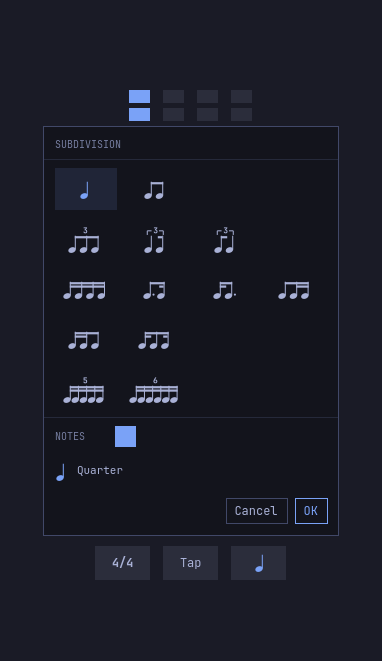
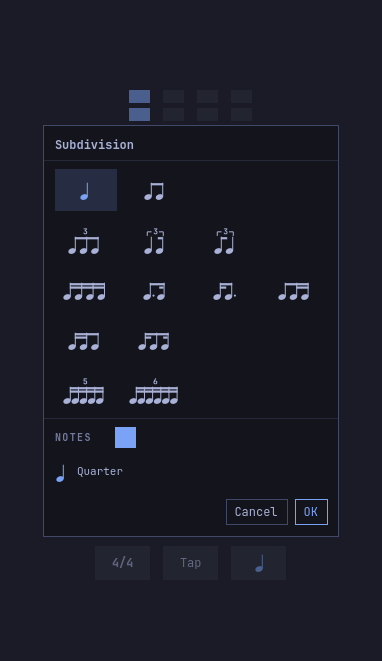
fix(ui): the dialogs follow Flea's current cards
The ground dims behind an open card and swallows the wheel; titles are
bold at the body size; the Notes eyebrow is bold and tracked; tiles take
the shell's hover and selected fills; the keys sheet gains the settings
header (esc and a close at the hit floor) and framed caps. The README's
two dialog screenshots are retaken.

diff --git a/ui/Main.qml b/ui/Main.qml
@@ -843,10 +843,26 @@ Item {
         // --- the time signature editor, over everything while open ---
         // The wheels spin a draft; ok commits it to the metronome, cancel —
         // or a click outside — throws the draft away.
-        MouseArea {
+        // Flea's ground under an open card: the window dimmed by half, and a
+        // press on it is a cancel. It swallows the wheel so nothing behind
+        // the card turns while it is up.
+        component Ground: Rectangle {
+            signal dismissed()
             anchors.fill: parent
+            color: Qt.alpha(Theme.color.background, Theme.groundOpacity)
+
+            MouseArea {
+                anchors.fill: parent
+                acceptedButtons: Qt.LeftButton | Qt.RightButton
+                hoverEnabled: true
+                onClicked: parent.dismissed()
+                onWheel: function (wheel) { wheel.accepted = true }
+            }
+        }
+
+        Ground {
             visible: root.tsOpen
-            onClicked: root.tsOpen = false
+            onDismissed: root.tsOpen = false
         }
 
         Rectangle {
@@ -902,19 +918,20 @@ Item {
                 anchors.topMargin: Theme.spacing.rowPaddingX
                 spacing: 0
 
-                // Flea's dialog header: the title sits at the card's left
-                // padding on a hairline rule, and the body hangs below it.
+                // Flea's dialog header: the title, bold in the body's size,
+                // sits at the card's left padding on a hairline rule, and
+                // the body hangs below it.
                 Text {
                     width: parent.width
                     leftPadding: Theme.spacing.rowPaddingX
                     rightPadding: Theme.spacing.rowPaddingX
                     bottomPadding: Theme.spacing.gap
                     text: I18n.tr("timeSignature.title")
-                    font.capitalization: Font.AllUppercase
                     elide: Text.ElideRight
-                    color: Theme.color.captionOnSurface
+                    color: Theme.color.foreground
                     font.family: Theme.font.family
-                    font.pixelSize: Theme.font.caption
+                    font.pixelSize: Theme.font.body
+                    font.bold: true
 
                     Rectangle {
                         anchors.bottom: parent.bottom
@@ -1002,10 +1019,9 @@ Item {
         // The plain cells a beat can be, a tile each, in bands by grid, and
         // a custom row beneath that reaches every other one;
         // ok commits the draft, cancel or a click outside throws it away.
-        MouseArea {
-            anchors.fill: parent
+        Ground {
             visible: root.subOpen
-            onClicked: root.subOpen = false
+            onDismissed: root.subOpen = false
         }
 
         Rectangle {
@@ -1100,8 +1116,8 @@ Item {
 
                 Rectangle {
                     anchors.fill: parent
-                    color: parent.chosen ? Qt.alpha(Theme.color.accent, 0.12)
-                         : tileHover.hovered ? Theme.color.lineSoft : "transparent"
+                    color: parent.chosen ? Theme.color.selectedFill
+                         : tileHover.hovered ? Theme.color.hoverFill : "transparent"
                 }
 
                 NoteFigure {
@@ -1144,11 +1160,11 @@ Item {
                     rightPadding: Theme.spacing.rowPaddingX
                     bottomPadding: Theme.spacing.gap
                     text: I18n.tr("subdivision.title")
-                    font.capitalization: Font.AllUppercase
                     elide: Text.ElideRight
-                    color: Theme.color.captionOnSurface
+                    color: Theme.color.foreground
                     font.family: Theme.font.family
-                    font.pixelSize: Theme.font.caption
+                    font.pixelSize: Theme.font.body
+                    font.bold: true
 
                     Rectangle {
                         anchors.bottom: parent.bottom
@@ -1202,7 +1218,10 @@ Item {
                             width: Math.max(Theme.golden(4), implicitWidth + Theme.golden(-1))
                             anchors.verticalCenter: parent.verticalCenter
                             text: I18n.tr("subdivision.notes")
+                            // Flea's eyebrow: small caps, bold and tracked.
                             font.capitalization: Font.AllUppercase
+                            font.bold: true
+                            font.letterSpacing: Theme.font.caption * 0.14
                             color: Theme.color.captionOnSurface
                             font.family: Theme.font.family
                             font.pixelSize: Theme.font.caption
@@ -1327,10 +1346,9 @@ Item {
         // --- the keys sheet: ? opens it, esc, ? or the x closes it ---
         // The same card as the time signature editor, without actions: the
         // header carries the close, and a click outside is a close too.
-        MouseArea {
-            anchors.fill: parent
+        Ground {
             visible: root.keysOpen
-            onClicked: root.keysOpen = false
+            onDismissed: root.keysOpen = false
         }
 
         Rectangle {
@@ -1361,16 +1379,18 @@ Item {
                 ["keycap.question", "keys.sheet"]
             ]
 
-            // The cap column fits the widest cap in this language.
             FontMetrics {
                 id: capMetrics
                 font.family: Theme.font.family
-                font.pixelSize: Theme.font.bodySmall
+                font.pixelSize: Theme.font.caption
             }
+            // Flea's cap is the height of a row's mark, and the column is
+            // as wide as the widest cap in this language.
+            readonly property int capHeight: Math.round(Theme.font.bodySmall * 1.45)
             readonly property int capWidth: {
-                var widest = Theme.space(96)
+                var widest = capHeight
                 for (var i = 0; i < bindings.length; i++)
-                    widest = Math.max(widest, Math.ceil(capMetrics.advanceWidth(I18n.tr(bindings[i][0]))) + Theme.spacing.gap)
+                    widest = Math.max(widest, Math.ceil(capMetrics.advanceWidth(I18n.shortcut(bindings[i][0]))) + Theme.spacing.gap)
                 return widest
             }
 
@@ -1381,19 +1401,32 @@ Item {
                 anchors.topMargin: Theme.spacing.rowPaddingX
                 spacing: 0
 
+                // Flea's settings header: the title, then "esc" and the
+                // close mark at the right, over a hairline rule.
                 Item {
                     width: parent.width
-                    height: keysTitle.implicitHeight + Theme.spacing.gap
+                    height: Math.max(keysTitle.implicitHeight, keysClose.height) + Theme.spacing.gap
 
                     Text {
                         id: keysTitle
                         anchors.left: parent.left
                         anchors.leftMargin: Theme.spacing.rowPaddingX
-                        anchors.top: parent.top
-                        anchors.right: keysClose.left
+                        anchors.right: keysEsc.left
+                        anchors.rightMargin: Theme.spacing.gap
+                        anchors.verticalCenter: keysClose.verticalCenter
                         text: I18n.tr("keys.title")
-                        font.capitalization: Font.AllUppercase
                         elide: Text.ElideRight
+                        color: Theme.color.foreground
+                        font.family: Theme.font.family
+                        font.pixelSize: Theme.font.body
+                        font.bold: true
+                    }
+
+                    Text {
+                        id: keysEsc
+                        anchors.right: keysClose.left
+                        anchors.verticalCenter: keysClose.verticalCenter
+                        text: I18n.tr("keycap.esc")
                         color: Theme.color.captionOnSurface
                         font.family: Theme.font.family
                         font.pixelSize: Theme.font.caption
@@ -1402,14 +1435,14 @@ Item {
                     ChromeButton {
                         id: keysClose
                         glyph: "✕"
-                        restingColor: Theme.color.captionOnSurface
+                        restingColor: Theme.color.foreground
                         accessibleName: I18n.tr("a11y.close")
                         glyphSize: Theme.font.bodySmall
                         anchors.right: parent.right
                         anchors.rightMargin: Theme.spacing.gap
-                        anchors.verticalCenter: keysTitle.verticalCenter
-                        width: Theme.space(24)
-                        height: Theme.space(20)
+                        anchors.top: parent.top
+                        width: Theme.hitMin
+                        height: Theme.hitMin
                         onActivated: root.keysOpen = false
                     }
 
@@ -1430,34 +1463,51 @@ Item {
                     Repeater {
                         model: keysPanel.bindings
 
+                        // Flea's keymap row: the key in a hairline cap, what
+                        // it does beside it in caption ink.
                         Item {
                             width: parent.width
-                            height: Math.max(keyLabel.implicitHeight, keyAction.implicitHeight)
+                            height: Math.max(keysPanel.capHeight, keyAction.implicitHeight)
 
-                            Text {
-                                id: keyLabel
+                            Rectangle {
+                                id: keyCap
                                 anchors.left: parent.left
                                 anchors.leftMargin: Theme.spacing.rowPaddingX
+                                anchors.top: parent.top
                                 width: keysPanel.capWidth
-                                // Set, not implied, so mirroring swaps it to the
-                                // cap column's outer edge.
-                                horizontalAlignment: Text.AlignLeft
-                                text: I18n.shortcut(modelData[0])
-                                color: Theme.color.foreground
-                                font.family: Theme.font.family
-                                font.pixelSize: Theme.font.bodySmall
+                                height: keysPanel.capHeight
+                                color: "transparent"
+                                border.width: Theme.spacing.hairline
+                                border.color: Theme.color.muted
+
+                                Text {
+                                    anchors.fill: parent
+                                    anchors.margins: Theme.spacing.hairline
+                                    horizontalAlignment: Text.AlignHCenter
+                                    verticalAlignment: Text.AlignVCenter
+                                    text: I18n.shortcut(modelData[0])
+                                    color: Theme.color.foreground
+                                    font.family: Theme.font.family
+                                    font.pixelSize: Theme.font.caption
+                                    elide: Text.ElideRight
+                                }
                             }
 
                             Text {
                                 id: keyAction
-                                anchors.left: keyLabel.right
+                                anchors.left: keyCap.right
+                                anchors.leftMargin: Theme.spacing.gap
                                 anchors.right: parent.right
                                 anchors.rightMargin: Theme.spacing.rowPaddingX
+                                anchors.top: parent.top
+                                // Centred on the cap's line; a label that
+                                // wraps hangs from it instead.
+                                topPadding: Math.max(0, (keysPanel.capHeight - capMetrics.height) / 2)
                                 horizontalAlignment: Text.AlignLeft
                                 text: I18n.tr(modelData[1])
                                 color: Theme.color.captionOnSurface
                                 font.family: Theme.font.family
-                                font.pixelSize: Theme.font.bodySmall
+                                font.pixelSize: Theme.font.caption
                                 wrapMode: Text.WordWrap
                             }
                         }

diff --git a/ui/Theme.qml b/ui/Theme.qml
@@ -48,6 +48,10 @@ Singleton {
         // foreground ink at the alphas the shell itself uses.
         readonly property color line: Qt.alpha(root.color.foreground, 0.25)
         readonly property color lineSoft: Qt.alpha(root.color.foreground, 0.12)
+        // Flea's two row states, from the shell's [controls] alphas: the lift
+        // under a pointer, and the accent wash on the chosen one.
+        readonly property color hoverFill: Qt.alpha(root.color.foreground, root.hoverFillAlpha)
+        readonly property color selectedFill: Qt.alpha(root.color.accent, root.selectedFillAlpha)
         // Muted is a comment colour: most Omarchy themes set it too faint to
         // read as text. These are that colour lifted just far enough to pass
         // WCAG AA on what sits behind them, so a theme that is already
@@ -127,6 +131,10 @@ Singleton {
     // lines up with a card there: a hairline, a row's side padding, a gap.
     // The smallest a dialog action gets, Flea's own floor.
     readonly property int hitMin: 24
+    // How far Flea dims the window behind an open card.
+    readonly property real groundOpacity: 0.5
+    property real hoverFillAlpha: 0.08
+    property real selectedFillAlpha: 0.18
 
     readonly property QtObject spacing: QtObject {
         readonly property int hairline: root.space(1)
@@ -178,6 +186,13 @@ Singleton {
         // base size, measured from the 12 it defaults to.
         var withFont = doc["spacing.scale-with-font"] !== "false"
         root.spacingScale = scale * (withFont ? root.font.baseSize / 12 : 1)
+        root.hoverFillAlpha = alphaOf(doc["controls.hover-cursor-fill-alpha"], 0.08)
+        root.selectedFillAlpha = alphaOf(doc["controls.selected-fill-alpha"], 0.18)
+    }
+
+    function alphaOf(value, fallback) {
+        var a = parseFloat(value)
+        return isNaN(a) ? fallback : Math.max(0, Math.min(1, a))
     }
 
     // The smallest TOML reader the two files call for: key = value lines,
